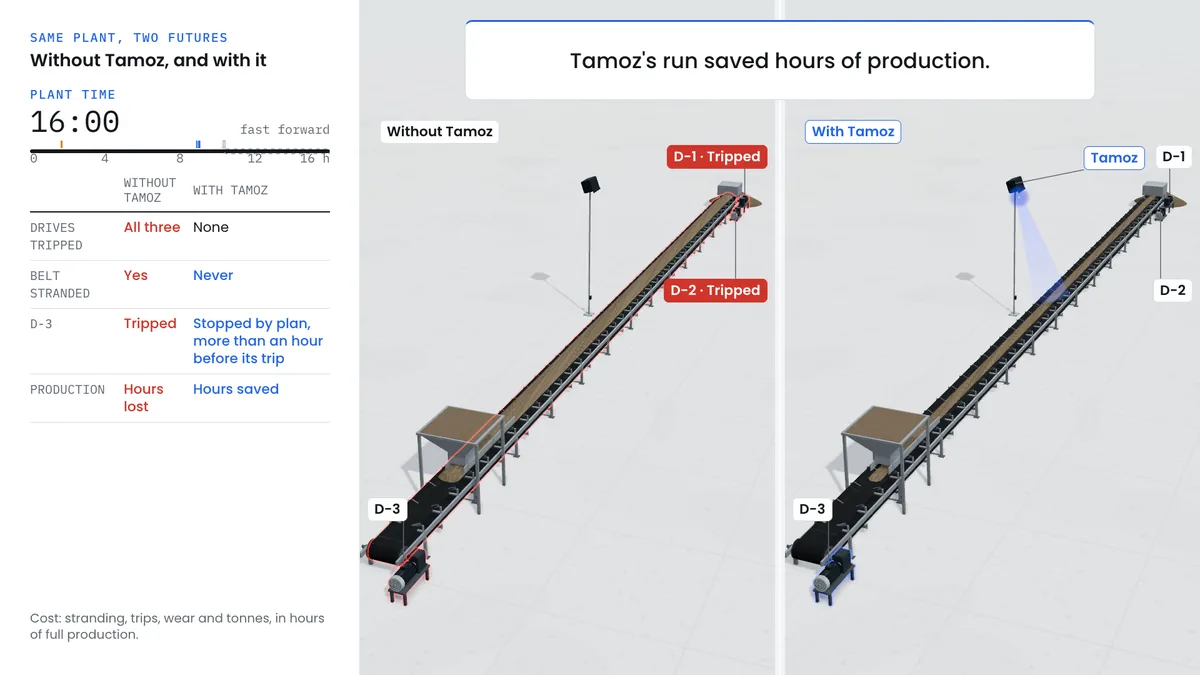
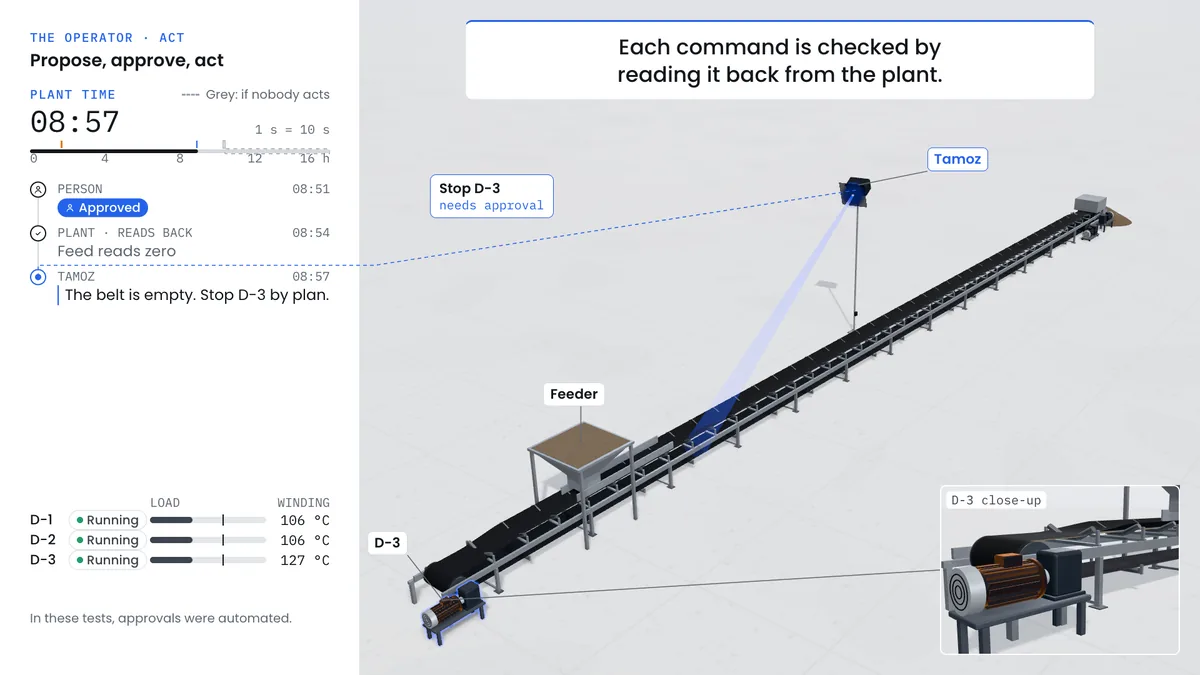
tamoz belt conveyor: a poster frame without the savings line, and the upload date
The film poster is now the S09 still at 1:44.5: the "Stop D-3 needs approval" card
on its way to the person, "Approved" in the log and Tamoz's beam on D-3. It has no
"saved" or "hours" wording. The same 1200x675 WebP is the VideoObject thumbnail,
and the VideoObject gets uploadDate 2026-11-12.

diff --git a/projects/tamoz-belt-conveyor.html b/projects/tamoz-belt-conveyor.html
@@ -82,7 +82,8 @@
     "description": "Tamoz, an industrial agent, on a simulated three-drive conveyor: first nobody acts, then the same failure with Tamoz watching. A simulation with synthetic data; read the screen.",
     "thumbnailUrl": "https://ghassan-alhamoud.com/images/projects/tamoz/belt-conveyor-film-poster.webp",
     "embedUrl": "https://www.youtube-nocookie.com/embed/8tqPs7fO1RY",
-    "contentUrl": "https://www.youtube.com/watch?v=8tqPs7fO1RY"
+    "contentUrl": "https://www.youtube.com/watch?v=8tqPs7fO1RY",
+    "uploadDate": "2026-11-12"
   }
   </script>
   <link rel="icon" type="image/svg+xml" href="/favicon.svg" />
